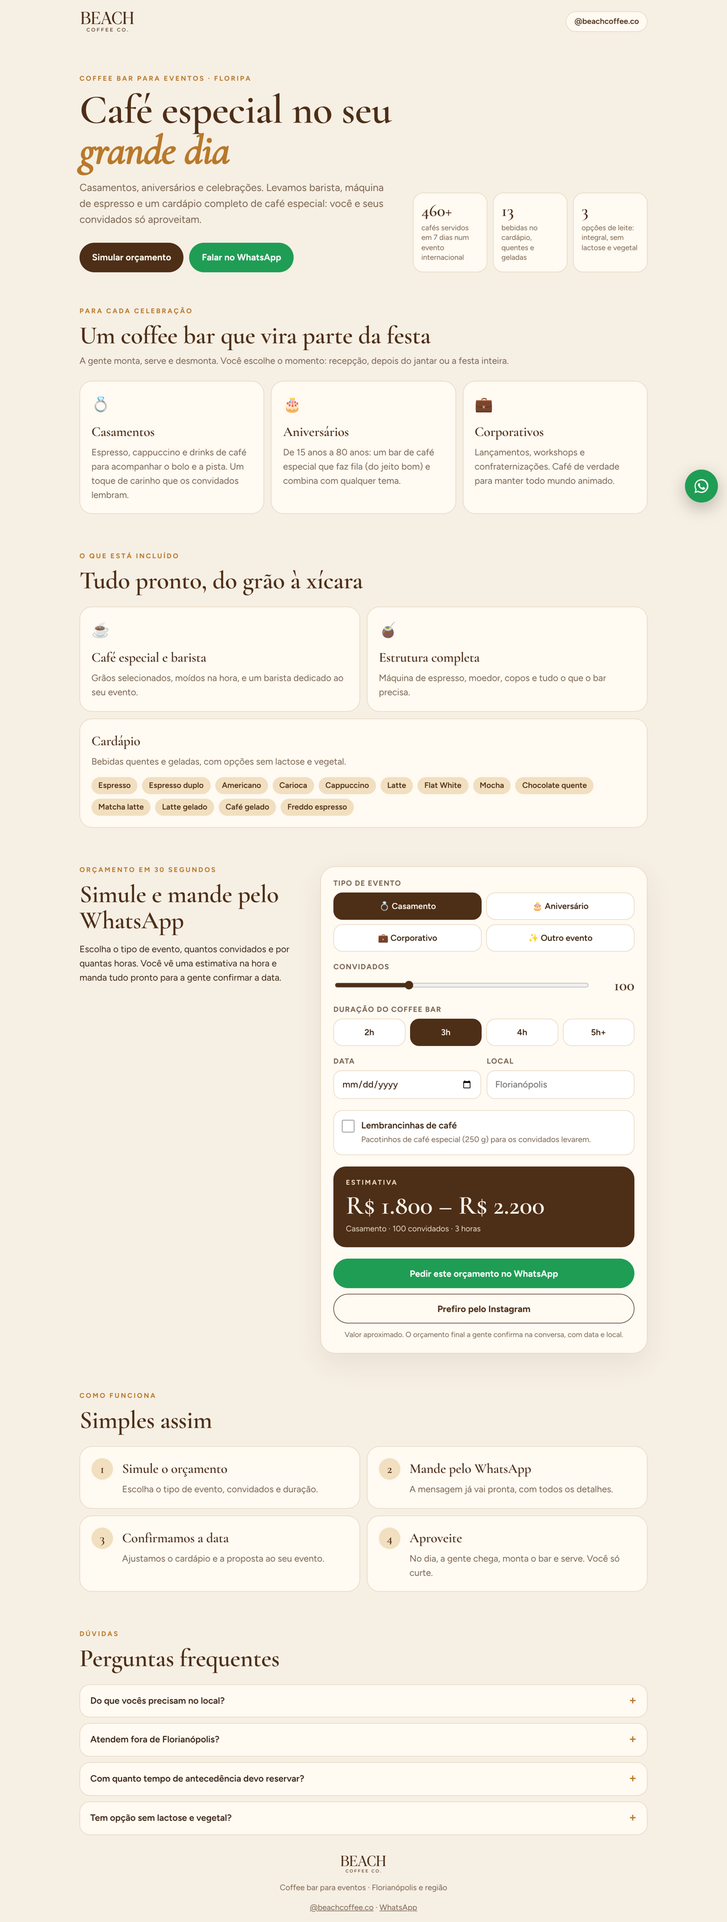
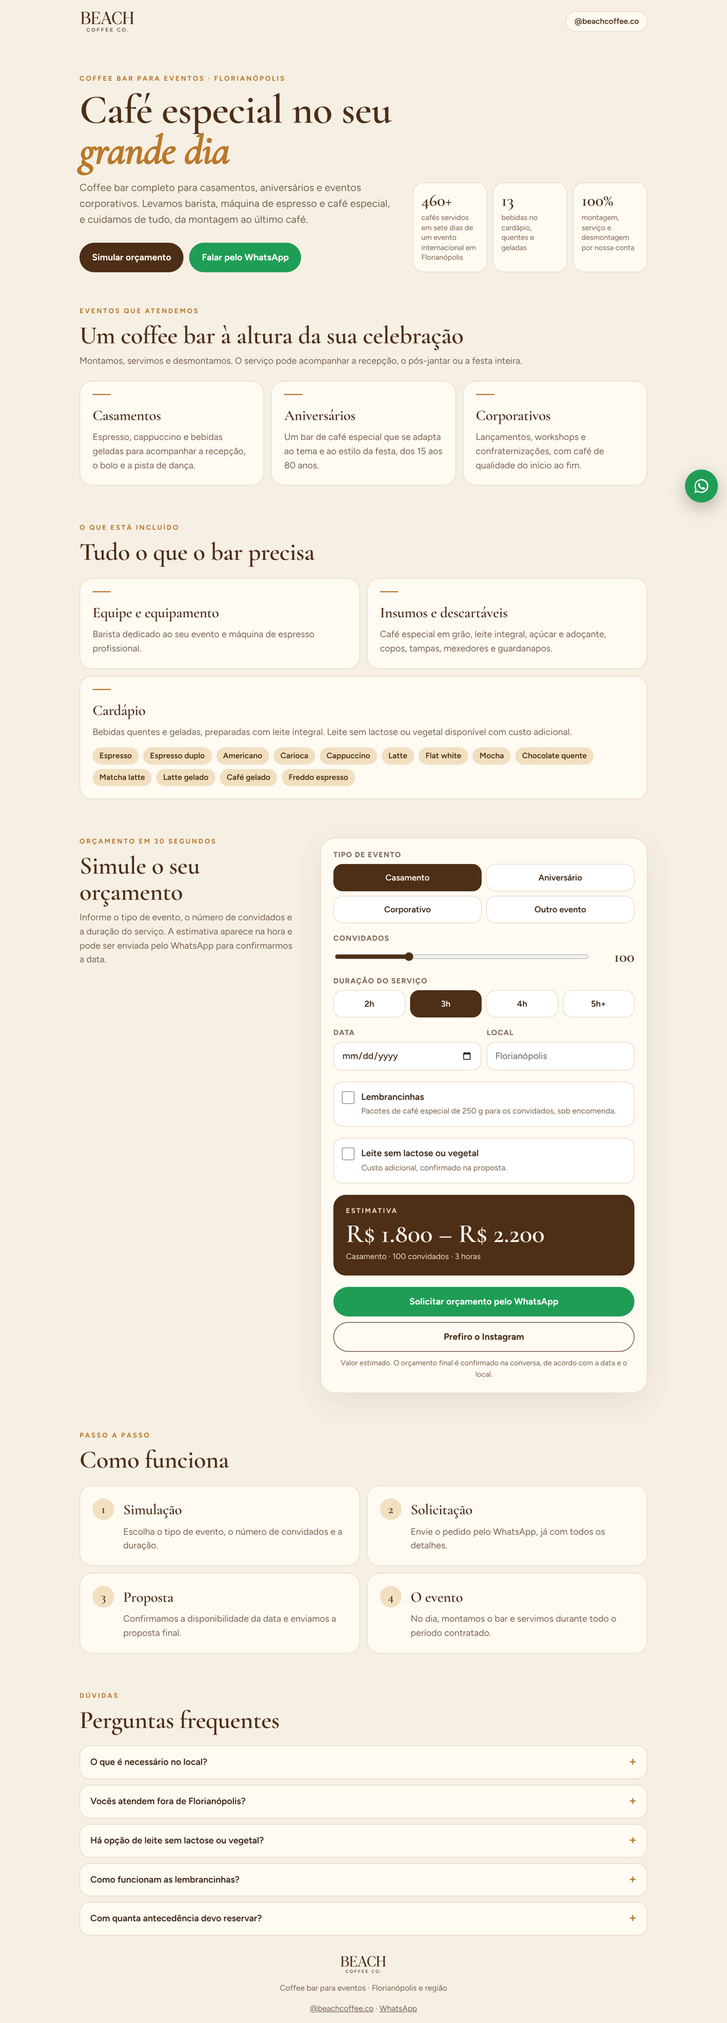
Events page: real prices, professional copy without emojis, milk option, favors FAQ
R$ 1,500 minimum and R$ 50 favors; the hours multiplier only scales the
per-guest part (set-up and travel stay R$ 500). Included items and FAQ
from the bar's answers; lactose-free or plant milk is an extra, asked in
the simulator and sent in the WhatsApp message. Estimate unit-tested
with the worked example (100 guests, 3 h: R$ 1,800 to R$ 2,200).

Claude-Session: https://claude.ai/code/session_018p9RnFmrGLAqtr3FTCy91F

diff --git a/telegram-bot/src/eventspage.js b/telegram-bot/src/eventspage.js
@@ -5,23 +5,33 @@ import { WORDMARK_SVG } from "./wordmark.js";
 
 export const CONTACT = { whatsapp: "5548998300443", instagram: "beachcoffee.co" };
 
-// Prices in R$ for the estimate: change them here. The page shows a range (± RANGE around the value),
+// Prices in R$ for the estimate: change them here. The page shows a range (± range around the value),
 // never a closed price: the final quote comes in the chat.
+// Cost basis measured at Island DAO (Oct 2026): R$ 2.14 per drink in supplies, R$ 60/h of the barista's
+// time, R$ 40 travel in Floripa. perGuest assumes 1.5 drinks per guest: check it after the first event.
 export const PRICING = {
-  base: 500,          // set-up, equipment and travel in Floripa
+  base: 500,          // set-up and travel in Floripa: the same for 2 h or 5 h, so hours don't scale it
   perGuest: 15,       // per guest, for a 3-hour service
-  hours: { 2: 0.85, 3: 1, 4: 1.15, 5: 1.3 },
-  minimum: 1200,
-  favor: 25,          // per 250 g bag of coffee as a party favor (lembrancinha)
+  hours: { 2: 0.85, 3: 1, 4: 1.15, 5: 1.3 },   // applied to the per-guest part only
+  minimum: 1500,
+  favor: 50,          // per 250 g bag of coffee as a party favor (lembrancinha)
   range: 0.1,
 };
 
 const EVENT_TYPES = [
-  ["casamento", "💍", "Casamento"],
-  ["aniversario", "🎂", "Aniversário"],
-  ["corporativo", "💼", "Corporativo"],
-  ["outro", "✨", "Outro evento"],
+  ["casamento", "Casamento"],
+  ["aniversario", "Aniversário"],
+  ["corporativo", "Corporativo"],
+  ["outro", "Outro evento"],
 ];
+
+// The estimate the page shows (same formula as the page's script), for tests and checks.
+export function estimate({ guests, hours, favors = 0 }) {
+  const p = PRICING;
+  const total = Math.max(p.minimum, p.base + p.perGuest * guests * p.hours[hours]) + favors * p.favor;
+  const round50 = n => Math.round(n / 50) * 50;
+  return { total, low: round50(total * (1 - p.range)), high: round50(total * (1 + p.range)) };
+}
 
 export function eventsHtml() {
   const config = JSON.stringify({ pricing: PRICING, contact: CONTACT, types: EVENT_TYPES });
@@ -35,15 +45,15 @@ const PAGE = String.raw`<!doctype html>
 <meta charset="utf-8">
 <meta name="viewport" content="width=device-width, initial-scale=1, viewport-fit=cover">
 <title>Coffee bar para eventos · Beach Coffee Co.</title>
-<meta name="description" content="Coffee bar de café especial para casamentos, aniversários e eventos em Florianópolis. Simule o orçamento e fale com a gente no WhatsApp.">
-<meta property="og:title" content="Coffee bar para o seu evento · Beach Coffee Co.">
-<meta property="og:description" content="Café especial, barista e cardápio completo para casamentos, aniversários e eventos em Floripa.">
+<meta name="description" content="Coffee bar de café especial para casamentos, aniversários e eventos corporativos em Florianópolis. Simule o orçamento e fale com a gente pelo WhatsApp.">
+<meta property="og:title" content="Coffee bar para eventos · Beach Coffee Co.">
+<meta property="og:description" content="Café especial, barista e estrutura completa para casamentos, aniversários e eventos corporativos em Florianópolis.">
 <meta name="theme-color" content="#f6efe4">
 <link rel="preconnect" href="https://fonts.googleapis.com">
 <link rel="stylesheet" href="https://fonts.googleapis.com/css2?family=Cormorant+Garamond:ital,wght@0,500;0,600;1,500&family=Figtree:wght@400;500;600;700&display=swap">
 <style>
   :root { --bg: #f6efe4; --card: #fffaf2; --ink: #3a2412; --brown: #4d2e17; --muted: #7a6450; --line: #e6d6bf;
-    --gold: #b8792b; --gold-soft: #f1dfc0; --green: #2f5d50; --wa: #1f9d55; }
+    --gold: #b8792b; --gold-soft: #f1dfc0; --wa: #1f9d55; }
   * { box-sizing: border-box; }
   html { scroll-behavior: smooth; }
   body { margin: 0; background: var(--bg); color: var(--ink); font: 400 16px/1.55 Figtree, system-ui, sans-serif; -webkit-font-smoothing: antialiased; }
@@ -71,12 +81,12 @@ const PAGE = String.raw`<!doctype html>
   .proof span { display: block; margin-top: 6px; font-size: 13px; color: var(--muted); line-height: 1.35; }
   section { padding: 34px 0; }
   section h2 { font-size: clamp(32px, 6vw, 44px); line-height: 1.05; }
-  section > .wrap > p.sub { color: var(--muted); margin: 10px 0 22px; }
+  section > .wrap > p.sub, .simwrap p.sub { color: var(--muted); margin: 10px 0 22px; }
   .grid { display: grid; gap: 12px; }
-  .card { background: var(--card); border: 1px solid var(--line); border-radius: 22px; padding: 20px; }
-  .card h3 { font-size: 24px; margin-bottom: 6px; }
+  .card { background: var(--card); border: 1px solid var(--line); border-radius: 22px; padding: 22px; }
+  .card h3 { font-size: 26px; margin-bottom: 6px; }
   .card p { margin: 0; color: var(--muted); }
-  .icon { font-size: 26px; margin-bottom: 10px; display: block; }
+  .rule { width: 32px; height: 2px; background: var(--gold); margin-bottom: 16px; }
   .menu { display: flex; flex-wrap: wrap; gap: 8px; margin-top: 14px; }
   .menu span { background: var(--gold-soft); color: var(--brown); border-radius: 999px; padding: 8px 12px; font: 600 14px/1 Figtree; }
   /* Simulator */
@@ -108,6 +118,7 @@ const PAGE = String.raw`<!doctype html>
   details { background: var(--card); border: 1px solid var(--line); border-radius: 18px; padding: 16px 18px; }
   details + details { margin-top: 10px; }
   summary { cursor: pointer; font-weight: 600; list-style: none; display: flex; justify-content: space-between; gap: 10px; }
+  summary::-webkit-details-marker { display: none; }
   summary::after { content: "+"; color: var(--gold); font-size: 22px; line-height: 1; }
   details[open] summary::after { content: "–"; }
   details p { margin: 10px 0 0; color: var(--muted); }
@@ -137,31 +148,31 @@ const PAGE = String.raw`<!doctype html>
 
   <div class="hero">
     <div>
-      <p class="eyebrow">Coffee bar para eventos · Floripa</p>
+      <p class="eyebrow">Coffee bar para eventos · Florianópolis</p>
       <h1>Café especial no seu <em>grande dia</em></h1>
-      <p class="lead">Casamentos, aniversários e celebrações. Levamos barista, máquina de espresso e um cardápio completo de café especial: você e seus convidados só aproveitam.</p>
+      <p class="lead">Coffee bar completo para casamentos, aniversários e eventos corporativos. Levamos barista, máquina de espresso e café especial, e cuidamos de tudo, da montagem ao último café.</p>
       <div class="ctas">
         <a class="btn primary" href="#orcamento">Simular orçamento</a>
-        <a class="btn wa" id="heroWa" href="#" target="_blank" rel="noopener">Falar no WhatsApp</a>
+        <a class="btn wa" id="heroWa" href="#" target="_blank" rel="noopener">Falar pelo WhatsApp</a>
       </div>
     </div>
     <div class="proof">
-      <div><b>460+</b><span>cafés servidos em 7 dias num evento internacional</span></div>
+      <div><b>460+</b><span>cafés servidos em sete dias de um evento internacional em Florianópolis</span></div>
       <div><b>13</b><span>bebidas no cardápio, quentes e geladas</span></div>
-      <div><b>3</b><span>opções de leite: integral, sem lactose e vegetal</span></div>
+      <div><b>100%</b><span>montagem, serviço e desmontagem por nossa conta</span></div>
     </div>
   </div>
 </div>
 
 <section>
   <div class="wrap">
-    <p class="eyebrow">Para cada celebração</p>
-    <h2>Um coffee bar que vira parte da festa</h2>
-    <p class="sub">A gente monta, serve e desmonta. Você escolhe o momento: recepção, depois do jantar ou a festa inteira.</p>
+    <p class="eyebrow">Eventos que atendemos</p>
+    <h2>Um coffee bar à altura da sua celebração</h2>
+    <p class="sub">Montamos, servimos e desmontamos. O serviço pode acompanhar a recepção, o pós-jantar ou a festa inteira.</p>
     <div class="grid three">
-      <div class="card"><span class="icon">💍</span><h3>Casamentos</h3><p>Espresso, cappuccino e drinks de café para acompanhar o bolo e a pista. Um toque de carinho que os convidados lembram.</p></div>
-      <div class="card"><span class="icon">🎂</span><h3>Aniversários</h3><p>De 15 anos a 80 anos: um bar de café especial que faz fila (do jeito bom) e combina com qualquer tema.</p></div>
-      <div class="card"><span class="icon">💼</span><h3>Corporativos</h3><p>Lançamentos, workshops e confraternizações. Café de verdade para manter todo mundo animado.</p></div>
+      <div class="card"><div class="rule"></div><h3>Casamentos</h3><p>Espresso, cappuccino e bebidas geladas para acompanhar a recepção, o bolo e a pista de dança.</p></div>
+      <div class="card"><div class="rule"></div><h3>Aniversários</h3><p>Um bar de café especial que se adapta ao tema e ao estilo da festa, dos 15 aos 80 anos.</p></div>
+      <div class="card"><div class="rule"></div><h3>Corporativos</h3><p>Lançamentos, workshops e confraternizações, com café de qualidade do início ao fim.</p></div>
     </div>
   </div>
 </section>
@@ -169,15 +180,16 @@ const PAGE = String.raw`<!doctype html>
 <section>
   <div class="wrap">
     <p class="eyebrow">O que está incluído</p>
-    <h2>Tudo pronto, do grão à xícara</h2>
+    <h2>Tudo o que o bar precisa</h2>
     <div class="grid two" style="margin-top:22px">
-      <div class="card"><span class="icon">☕</span><h3>Café especial e barista</h3><p>Grãos selecionados, moídos na hora, e um barista dedicado ao seu evento.</p></div>
-      <div class="card"><span class="icon">🧉</span><h3>Estrutura completa</h3><p>Máquina de espresso, moedor, copos e tudo o que o bar precisa.</p></div>
+      <div class="card"><div class="rule"></div><h3>Equipe e equipamento</h3><p>Barista dedicado ao seu evento e máquina de espresso profissional.</p></div>
+      <div class="card"><div class="rule"></div><h3>Insumos e descartáveis</h3><p>Café especial em grão, leite integral, açúcar e adoçante, copos, tampas, mexedores e guardanapos.</p></div>
     </div>
     <div class="card" style="margin-top:12px">
+      <div class="rule"></div>
       <h3>Cardápio</h3>
-      <p>Bebidas quentes e geladas, com opções sem lactose e vegetal.</p>
-      <div class="menu"><span>Espresso</span><span>Espresso duplo</span><span>Americano</span><span>Carioca</span><span>Cappuccino</span><span>Latte</span><span>Flat White</span><span>Mocha</span><span>Chocolate quente</span><span>Matcha latte</span><span>Latte gelado</span><span>Café gelado</span><span>Freddo espresso</span></div>
+      <p>Bebidas quentes e geladas, preparadas com leite integral. Leite sem lactose ou vegetal disponível com custo adicional.</p>
+      <div class="menu"><span>Espresso</span><span>Espresso duplo</span><span>Americano</span><span>Carioca</span><span>Cappuccino</span><span>Latte</span><span>Flat white</span><span>Mocha</span><span>Chocolate quente</span><span>Matcha latte</span><span>Latte gelado</span><span>Café gelado</span><span>Freddo espresso</span></div>
     </div>
   </div>
 </section>
@@ -186,8 +198,8 @@ const PAGE = String.raw`<!doctype html>
   <div class="wrap simwrap">
     <div>
       <p class="eyebrow">Orçamento em 30 segundos</p>
-      <h2>Simule e mande pelo WhatsApp</h2>
-      <p class="sub">Escolha o tipo de evento, quantos convidados e por quantas horas. Você vê uma estimativa na hora e manda tudo pronto para a gente confirmar a data.</p>
+      <h2>Simule o seu orçamento</h2>
+      <p class="sub">Informe o tipo de evento, o número de convidados e a duração do serviço. A estimativa aparece na hora e pode ser enviada pelo WhatsApp para confirmarmos a data.</p>
     </div>
     <form class="sim" id="sim" onsubmit="return false">
       <div class="field">
@@ -199,24 +211,25 @@ const PAGE = String.raw`<!doctype html>
         <div class="guests"><input type="range" id="guests" min="20" max="300" step="10" value="100"><output id="guestsOut">100</output></div>
       </div>
       <div class="field">
-        <span class="label">Duração do coffee bar</span>
+        <span class="label">Duração do serviço</span>
         <div class="hours" id="hours"></div>
       </div>
       <div class="row2">
         <div class="field"><label for="date">Data</label><input type="date" id="date"></div>
         <div class="field"><label for="city">Local</label><input type="text" id="city" placeholder="Florianópolis"></div>
       </div>
-      <label class="check"><input type="checkbox" id="favors"><span><b>Lembrancinhas de café</b><small>Pacotinhos de café especial (250 g) para os convidados levarem.</small></span></label>
-      <div class="field" id="favorsQtyWrap" hidden><label for="favorsQty">Quantos pacotes?</label><input type="number" id="favorsQty" min="10" step="10" value="50"></div>
+      <label class="check"><input type="checkbox" id="favors"><span><b>Lembrancinhas</b><small>Pacotes de café especial de 250 g para os convidados, sob encomenda.</small></span></label>
+      <div class="field" id="favorsQtyWrap" hidden><label for="favorsQty">Quantidade de pacotes</label><input type="number" id="favorsQty" min="10" step="10" value="50"></div>
+      <label class="check"><input type="checkbox" id="milk"><span><b>Leite sem lactose ou vegetal</b><small>Custo adicional, confirmado na proposta.</small></span></label>
       <div class="result">
         <div class="k">Estimativa</div>
         <div class="v" id="estimate">R$ –</div>
         <p id="estimateNote"></p>
       </div>
       <div class="send">
-        <a class="btn wa full" id="sendWa" href="#" target="_blank" rel="noopener">Pedir este orçamento no WhatsApp</a>
-        <button class="btn ghost full" id="sendIg" type="button">Prefiro pelo Instagram</button>
-        <p class="note">Valor aproximado. O orçamento final a gente confirma na conversa, com data e local.</p>
+        <a class="btn wa full" id="sendWa" href="#" target="_blank" rel="noopener">Solicitar orçamento pelo WhatsApp</a>
+        <button class="btn ghost full" id="sendIg" type="button">Prefiro o Instagram</button>
+        <p class="note">Valor estimado. O orçamento final é confirmado na conversa, de acordo com a data e o local.</p>
       </div>
     </form>
   </div>
@@ -224,13 +237,13 @@ const PAGE = String.raw`<!doctype html>
 
 <section>
   <div class="wrap">
-    <p class="eyebrow">Como funciona</p>
-    <h2>Simples assim</h2>
+    <p class="eyebrow">Passo a passo</p>
+    <h2>Como funciona</h2>
     <div class="steps" style="margin-top:22px">
-      <div class="card"><div><h3>Simule o orçamento</h3><p>Escolha o tipo de evento, convidados e duração.</p></div></div>
-      <div class="card"><div><h3>Mande pelo WhatsApp</h3><p>A mensagem já vai pronta, com todos os detalhes.</p></div></div>
-      <div class="card"><div><h3>Confirmamos a data</h3><p>Ajustamos o cardápio e a proposta ao seu evento.</p></div></div>
-      <div class="card"><div><h3>Aproveite</h3><p>No dia, a gente chega, monta o bar e serve. Você só curte.</p></div></div>
+      <div class="card"><div><h3>Simulação</h3><p>Escolha o tipo de evento, o número de convidados e a duração.</p></div></div>
+      <div class="card"><div><h3>Solicitação</h3><p>Envie o pedido pelo WhatsApp, já com todos os detalhes.</p></div></div>
+      <div class="card"><div><h3>Proposta</h3><p>Confirmamos a disponibilidade da data e enviamos a proposta final.</p></div></div>
+      <div class="card"><div><h3>O evento</h3><p>No dia, montamos o bar e servimos durante todo o período contratado.</p></div></div>
     </div>
   </div>
 </section>
@@ -240,10 +253,11 @@ const PAGE = String.raw`<!doctype html>
     <p class="eyebrow">Dúvidas</p>
     <h2>Perguntas frequentes</h2>
     <div style="margin-top:22px">
-      <details><summary>Do que vocês precisam no local?</summary><p>Um ponto de energia perto do bar e um espaço para a bancada. O resto a gente leva.</p></details>
-      <details><summary>Atendem fora de Florianópolis?</summary><p>Sim, Floripa e região. Para outras cidades, fale com a gente: o deslocamento entra no orçamento.</p></details>
-      <details><summary>Com quanto tempo de antecedência devo reservar?</summary><p>Quanto antes, melhor, principalmente para sábados e datas de alta temporada. Mande a data e a gente confirma se está livre.</p></details>
-      <details><summary>Tem opção sem lactose e vegetal?</summary><p>Sim. Todas as bebidas com leite podem ser feitas com leite sem lactose ou vegetal.</p></details>
+      <details><summary>O que é necessário no local?</summary><p>Precisamos de um ponto de energia próximo ao local do bar.</p></details>
+      <details><summary>Vocês atendem fora de Florianópolis?</summary><p>Atendemos Florianópolis e região. Para outras cidades, o deslocamento é incluído no orçamento.</p></details>
+      <details><summary>Há opção de leite sem lactose ou vegetal?</summary><p>Todas as bebidas são preparadas com leite integral. Leite sem lactose ou vegetal pode ser incluído, com custo adicional.</p></details>
+      <details><summary>Como funcionam as lembrancinhas?</summary><p>São pacotes de 250 g de café especial, feitos sob encomenda. Informe a quantidade na sua solicitação para garantirmos a produção a tempo.</p></details>
+      <details><summary>Com quanta antecedência devo reservar?</summary><p>Recomendamos reservar o quanto antes, principalmente para sábados e datas de alta temporada. Envie a data e confirmamos a disponibilidade.</p></details>
     </div>
   </div>
 </section>
@@ -265,12 +279,14 @@ const PAGE = String.raw`<!doctype html>
   const brl = n => "R$ " + Math.round(n).toLocaleString("pt-BR");
   const round50 = n => Math.round(n / 50) * 50;
   const state = { type: "casamento", guests: 100, hours: 3 };
-  const typeName = id => (C.types.find(t => t[0] === id) || [, , "Evento"])[2];
+  const typeName = id => (C.types.find(t => t[0] === id) || [, "Evento"])[1];
+  const hoursText = h => h === 5 ? "5 horas ou mais" : h + " horas";
   const wa = text => "https://wa.me/" + C.contact.whatsapp + "?text=" + encodeURIComponent(text);
 
-  $("types").innerHTML = C.types.map(t => '<button type="button" data-type="' + t[0] + '">' + t[1] + " " + t[2] + "</button>").join("");
+  $("types").innerHTML = C.types.map(t => '<button type="button" data-type="' + t[0] + '">' + t[1] + "</button>").join("");
   $("hours").innerHTML = Object.keys(C.pricing.hours).map(h => '<button type="button" data-hours="' + h + '">' + h + (h === "5" ? "h+" : "h") + "</button>").join("");
 
+  // Set-up and travel are fixed; the hours only scale the per-guest part.
   function estimate() {
     const p = C.pricing;
     const favors = $("favors").checked ? Math.max(0, Number($("favorsQty").value) || 0) : 0;
@@ -281,16 +297,17 @@ const PAGE = String.raw`<!doctype html>
   function message(e) {
     const d = $("date").value ? $("date").value.split("-").reverse().join("/") : "a definir";
     const lines = [
-      "Olá, Beach Coffee! Quero um orçamento de coffee bar ☕",
+      "Olá! Gostaria de solicitar um orçamento de coffee bar.",
       "",
-      "• Evento: " + typeName(state.type),
-      "• Data: " + d,
-      "• Local: " + ($("city").value.trim() || "a definir"),
-      "• Convidados: " + state.guests,
-      "• Duração: " + state.hours + (state.hours === 5 ? "h ou mais" : " horas"),
+      "Evento: " + typeName(state.type),
+      "Data: " + d,
+      "Local: " + ($("city").value.trim() || "a definir"),
+      "Convidados: " + state.guests,
+      "Duração: " + hoursText(state.hours),
     ];
-    if (e.favors) lines.push("• Lembrancinhas: " + e.favors + " pacotes de café");
-    lines.push("", "Estimativa do site: " + brl(e.low) + " – " + brl(e.high));
+    if (e.favors) lines.push("Lembrancinhas: " + e.favors + " pacotes de 250 g");
+    if ($("milk").checked) lines.push("Leite sem lactose ou vegetal: sim");
+    lines.push("", "Estimativa do site: " + brl(e.low) + " a " + brl(e.high));
     return lines.join("\n");
   }
   function render() {
@@ -300,25 +317,26 @@ const PAGE = String.raw`<!doctype html>
     $("favorsQtyWrap").hidden = !$("favors").checked;
     const e = estimate();
     $("estimate").textContent = brl(e.low) + " – " + brl(e.high);
-    $("estimateNote").textContent = typeName(state.type) + " · " + state.guests + " convidados · " + state.hours + (state.hours === 5 ? "h ou mais" : " horas") +
-      (e.favors ? " · " + e.favors + " lembrancinhas" : "");
+    $("estimateNote").textContent = typeName(state.type) + " · " + state.guests + " convidados · " + hoursText(state.hours) +
+      (e.favors ? " · " + e.favors + " lembrancinhas" : "") + ($("milk").checked ? " · leite sem lactose ou vegetal à parte" : "");
     $("sendWa").href = wa(message(e));
   }
 
   $("types").addEventListener("click", e => { const b = e.target.closest("[data-type]"); if (b) { state.type = b.dataset.type; render(); } });
   $("hours").addEventListener("click", e => { const b = e.target.closest("[data-hours]"); if (b) { state.hours = Number(b.dataset.hours); render(); } });
   $("guests").addEventListener("input", e => { state.guests = Number(e.target.value); render(); });
-  ["date", "city", "favors", "favorsQty"].forEach(id => $(id).addEventListener("input", render));
+  ["date", "city", "favors", "favorsQty", "milk"].forEach(id => $(id).addEventListener("input", render));
 
   // Instagram can't take a prefilled message: copy it, then open the DM.
   const toast = t => { $("toast").textContent = t; $("toast").classList.add("on"); setTimeout(() => $("toast").classList.remove("on"), 2600); };
   $("sendIg").addEventListener("click", async () => {
     const text = message(estimate());
-    try { await navigator.clipboard.writeText(text); toast("Mensagem copiada! É só colar na DM 💬"); } catch (err) { toast("Abra a DM e conte data, convidados e duração 💬"); }
+    try { await navigator.clipboard.writeText(text); toast("Mensagem copiada. Cole na conversa do Instagram."); }
+    catch (err) { toast("Envie na conversa a data, o número de convidados e a duração."); }
     setTimeout(() => window.open("https://ig.me/m/" + C.contact.instagram, "_blank"), 600);
   });
 
-  const hello = wa("Olá, Beach Coffee! Quero saber mais sobre o coffee bar para o meu evento ☕");
+  const hello = wa("Olá! Gostaria de saber mais sobre o coffee bar da Beach Coffee para o meu evento.");
   ["heroWa", "footWa", "floatWa"].forEach(id => { $(id).href = hello; });
   render();
 </script>

diff --git a/docs/STATE.md b/docs/STATE.md
@@ -1,6 +1,6 @@
 # Estado do projeto (para retomar numa conversa nova)
 
-Atualizado em 29/10/2026, bot e Âncora na **v1.7.10**, no domínio próprio **drinkbeachcoffee.com** (Solflare como carteira principal).
+Atualizado em 29/10/2026, bot e Âncora na **v1.7.11**, no domínio próprio **drinkbeachcoffee.com** (Solflare como carteira principal).
 
 ## O que existe e onde
 
@@ -41,6 +41,7 @@ Atualizado em 29/10/2026, bot e Âncora na **v1.7.10**, no domínio próprio **d
 - 31/10: v1.7.8: **fecha sozinho no sábado e no domingo** (horário de Floripa) com "The barista is off touching sand 🏝 Orders open again Monday. Keep building ☕", no mini app e no chat. `/open` num fim de semana abre só aquele dia; na segunda abre sozinho. `/close` continua fechando até o próximo `/open`.
 - 31/10: v1.7.9: com o bar fechado o mini app **continua aberto para ver o cardápio, o ranking, dar tip e comprar o pacote**; só o pedido espera, com o aviso ("off touching sand" no fim de semana) logo abaixo das bebidas. `/bags 17` diz quantos pacotes restam (os vendidos no balcão saem do estoque): restam **17 de 20**, mandar `/bags 17` no chat da barista.
 - 31/10: v1.7.10: no fim de semana o aviso é sempre "off touching sand", mesmo depois de um `/close`. Atenção: o `/close` manual continua valendo depois do fim de semana; se foi usado, mandar `/open` na segunda de manhã.
+- 01/11: v1.7.11: **página de eventos** em https://drinkbeachcoffee.com/eventos (casamentos, aniversários, corporativos; português). Simulador de orçamento: R$ 500 de montagem e deslocamento (fixo) + R$ 15 por convidado para 3 h (2 h 85%, 4 h +15%, 5 h+ +30%, só na parte por convidado), mínimo R$ 1.500, lembrancinha R$ 50 por pacote de 250 g, faixa de ±10%. Envia a mensagem pronta para o WhatsApp +55 48 99830-0443 ou copia para a DM do @beachcoffee.co. Preços em `PRICING` em `telegram-bot/src/eventspage.js`. Base de custo medida no Island DAO: R$ 2,14 de insumos por bebida, R$ 60/h, R$ 40 de deslocamento; R$ 15 por convidado supõe 1,5 bebida por convidado (medir no primeiro evento). Falta: prazo de antecedência das lembrancinhas (FAQ sem número por enquanto).
 - Números de 27/10 (terça): 97 bebidas, Telegram 17, barra 80, 13 clientes no Telegram, pico 14–15h, Latte 19.
 
 ## Pendências
